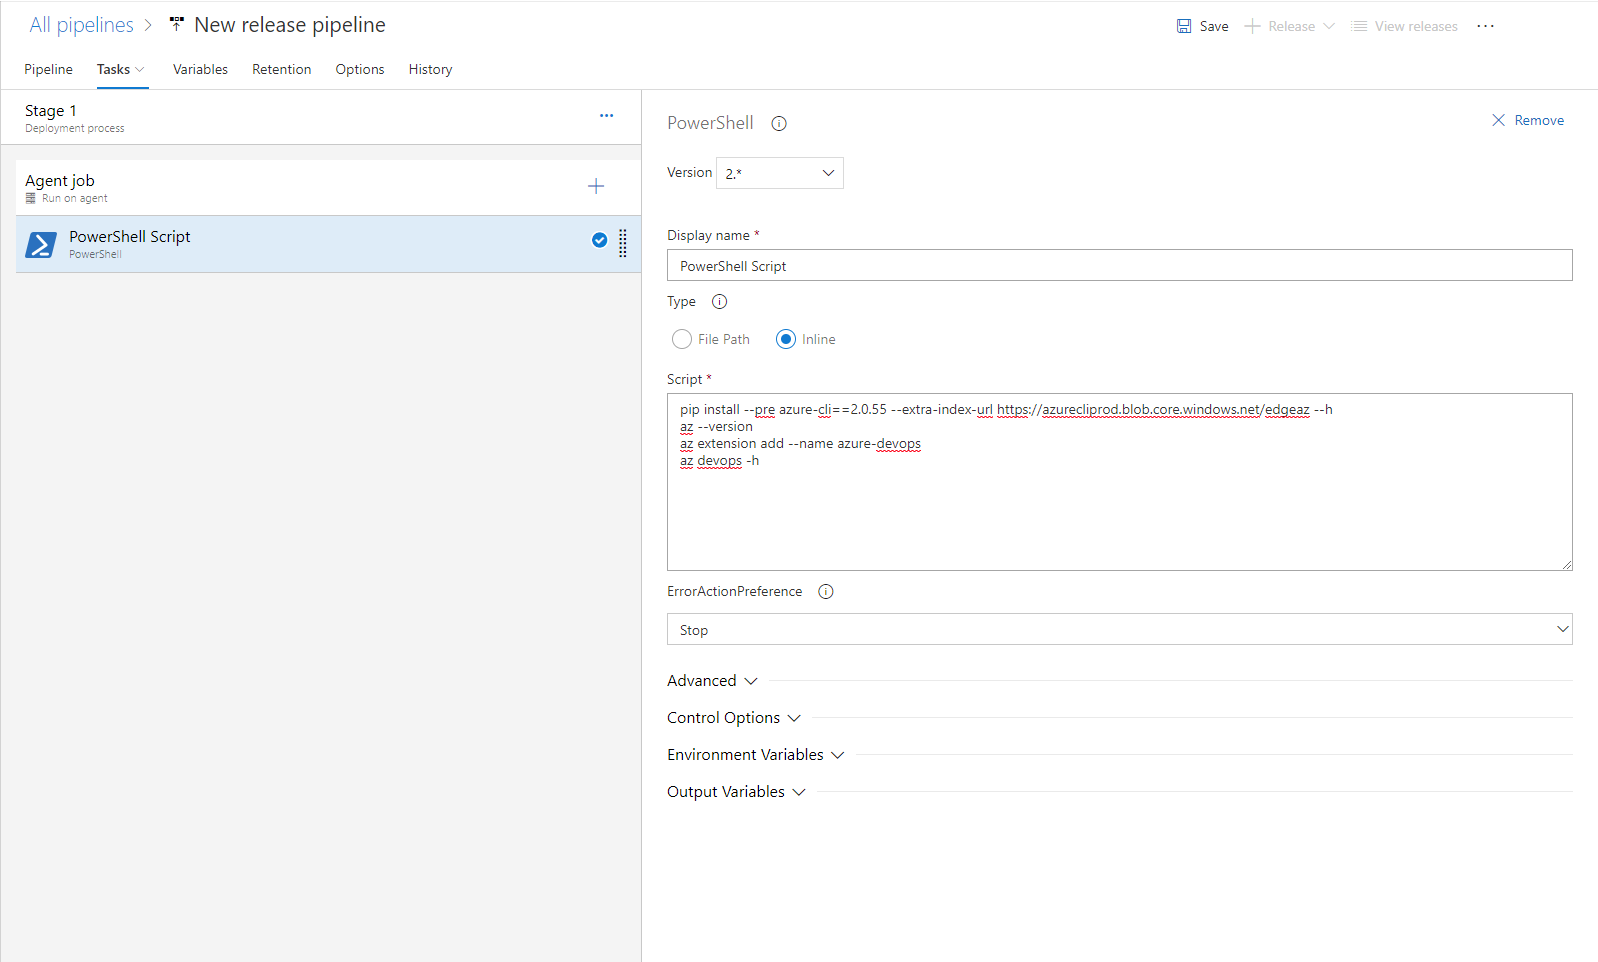
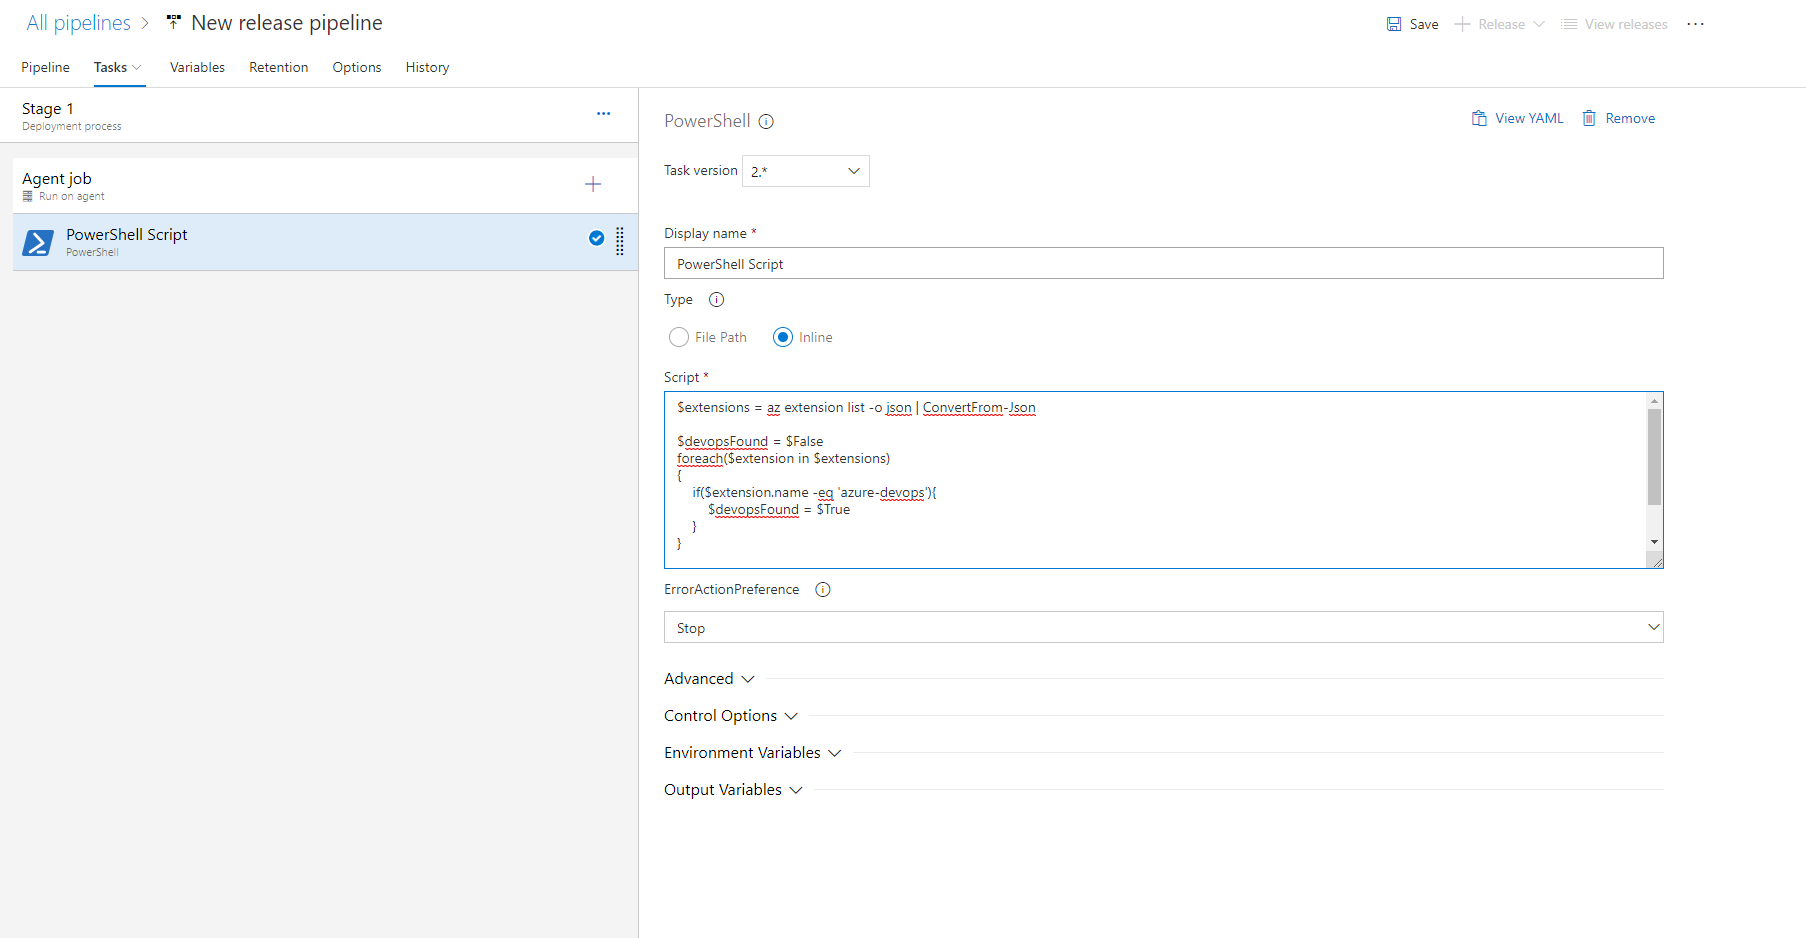
Update extension install script/ instructions (#550)
* update instruction to update extension only when extension is not installed

* remove

* update image

diff --git a/doc/samples.md b/doc/samples.md
@@ -135,14 +135,21 @@ To use the Azure DevOps Extension in a hosted agent using a Release Pipeline, ex
 
 Including the inline script for reference
 
-```bash
-pip install --pre azure-cli==2.0.55 --extra-index-url https://azurecliprod.blob.core.windows.net/edgeaz --h
-az --version
-az extension add --name azure-devops
-az devops -h
-```
+```powershell
+$extensions = az extension list -o json | ConvertFrom-Json
 
-The first line of the script installs the Azure CLI.
+$devopsFound = $False
+foreach($extension in $extensions)
+{
+    if($extension.name -eq 'azure-devops'){
+        $devopsFound = $True
+    }
+}
+
+if ($devopsFound -eq $False){
+    az extension add -n azure-devops
+}
+```
 
 ### Use the Azure DevOps Extension with YAML
 
